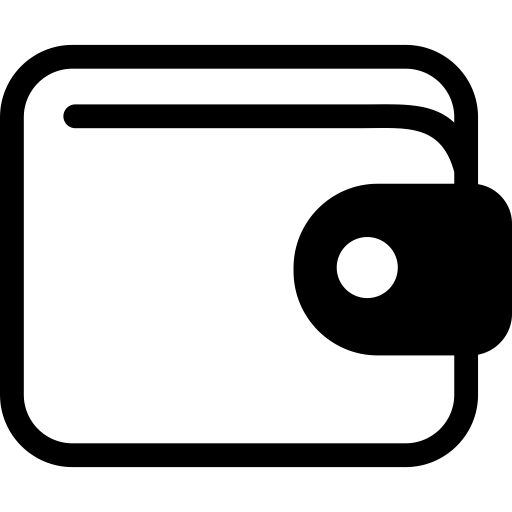
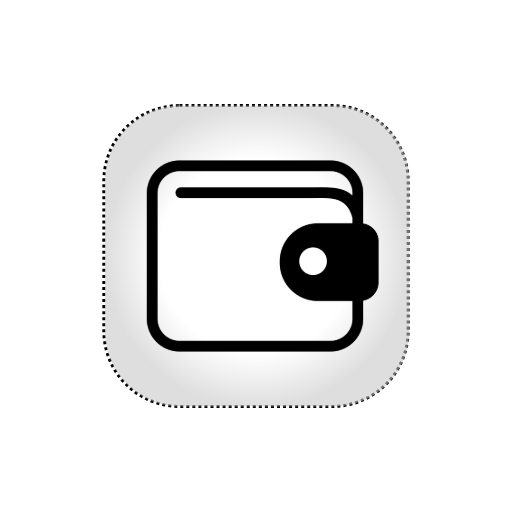
poprawa nawigacji przy opcji zapomnialem haslo, update ikony i rozwiazanie problemow: offline, checkAndRestore przy kazdym uruchomieniu aplikacji, sprawdzanie czy wykonac upload backupu po tygodniu

diff --git a/context/DbContext.jsx b/context/DbContext.jsx
@@ -8,7 +8,8 @@ import migrations from '@/drizzle/migrations';
 import { openDatabaseSync } from 'expo-sqlite';
 import { initializeNewUserDatabase } from '@/database/defaultData';
 import { processPeriodicTransactions } from '@/services/periodicTransactionService';
-import { shouldCheckPeriodicTransactions, markPeriodicCheckCompleted } from '@/utils/periodicChecker';
+import { shouldCheckPeriodicTransactions, markPeriodicCheckCompleted, shouldCheckBackup, performBackupCheck } from '@/utils/periodicChecker';
+import { useNetworkStatus } from './NetworkContext';
 
 export const DATABASE_NAME = 'database.db';
 const DB_PATH = `${FileSystem.documentDirectory}SQLite/${DATABASE_NAME}`;
@@ -19,6 +20,7 @@ export const DbProvider = ({ children }) => {
     const [db, setDb] = useState(null);
     const [isLoading, setIsLoading] = useState(false);
     const [isReady, setIsReady] = useState(false);
+    const { isConnected } = useNetworkStatus();
 
     const sqliteConnectionRef = useRef(null);
     const isClearingRef = useRef(false);
@@ -81,7 +83,6 @@ export const DbProvider = ({ children }) => {
 
         setIsLoading(true);
         console.log('[DbContext] Inicjalizacja bazy danych po logowaniu...');
-
         if (sqliteConnectionRef.current) {
             try {
                 sqliteConnectionRef.current.closeSync();
@@ -93,7 +94,7 @@ export const DbProvider = ({ children }) => {
         sqliteConnectionRef.current = null;
 
         try {
-            if (!skipRestore) {
+            if (!skipRestore && isConnected) {
                 console.log('[DbContext] Sprawdzanie i przywracanie kopii zapasowej bazy danych...');
                 await checkAndRestoreBackup(uid);
             }
@@ -124,9 +125,7 @@ export const DbProvider = ({ children }) => {
                         if (periodicResult.addedCount > 0) {
                             console.log(`[DbContext] ${periodicResult.message}`);
                             console.log(`[DbContext] Dodane transakcje:`, periodicResult.addedTransactions.map(t => t.title));
-                            if (__DEV__) {
-                                //Alert.alert('Dodano nowe transakcje', periodicResult.message);
-                            }
+
                         } else {
                             console.log('[DbContext] Sprawdzenie transakcji okresowych zakończone - brak nowych transakcji');
                         }
@@ -135,6 +134,25 @@ export const DbProvider = ({ children }) => {
                     }
                 } else {
                     console.log('[DbContext] Transakcje okresowe sprawdzane niedawno, pomijam sprawdzenie');
+                }
+
+                if (isConnected) {
+                    const shouldCheckBackupNow = await shouldCheckBackup();
+                    if (shouldCheckBackupNow) {
+                        try {
+                            const backupResult = await performBackupCheck();
+                            if (backupResult.uploaded) {
+                            } else {
+                                console.log(`[DbContext] Backup nie był potrzebny: ${backupResult.reason}`);
+                            }
+                        } catch (backupError) {
+                            console.error('[DbContext] Błąd podczas sprawdzania backup\'u:', backupError);
+                        }
+                    } else {
+                        console.log('[DbContext] Backup sprawdzany niedawno (< 24h), pomijam.');
+                    }
+                } else {
+                    console.log('[DbContext] Brak połączenia z internetem, pomijam sprawdzanie backup\'u.');
                 }
 
             } catch (periodicError) {
@@ -147,7 +165,7 @@ export const DbProvider = ({ children }) => {
         }
         setIsLoading(false);
         isInitializingRef.current = false;
-    }, [clearDatabase]);
+    }, [clearDatabase, isConnected]);
 
     const handleNewRegistration = useCallback(async (userId, email) => {
         setIsLoading(true);

diff --git a/services/backupService.js b/services/backupService.js
@@ -225,7 +225,7 @@ export async function uploadBackupIfOlderThan(thresholdInMilliseconds = 7 * 24 *
     const storage = getStorage();
     const userId = auth.currentUser?.uid;
     if (!userId) {
-        console.warn("[ConditionalBackup] Użytkownik nie jest zalogowany.");
+        console.warn("[BackupService] Użytkownik nie jest zalogowany.");
         return { uploaded: false, reason: "User not logged in" };
     }
 
@@ -233,36 +233,36 @@ export async function uploadBackupIfOlderThan(thresholdInMilliseconds = 7 * 24 *
     let newestRemoteTimestamp = 0;
 
     try {
-        console.log(`[ConditionalBackup] Sprawdzanie istniejących backupów dla użytkownika ${userId}`);
+        console.log(`[BackupService] Sprawdzanie istniejących backupów dla użytkownika ${userId}`);
         const newestBackup = await _findNewestRemoteBackup(userBackupsRef);
 
         if (newestBackup) {
             newestRemoteTimestamp = newestBackup.timestamp;
-            console.log(`[ConditionalBackup] Najnowszy zdalny backup ma timestamp: ${newestRemoteTimestamp}`);
+            console.log(`[BackupService] Najnowszy zdalny backup ma timestamp: ${newestRemoteTimestamp}`);
         } else {
-            console.log("[ConditionalBackup] Brak zdalnych backupów. Należy utworzyć pierwszy backup.");
+            console.log("[BackupService] Brak zdalnych backupów. Należy utworzyć pierwszy backup.");
         }
     } catch (error) {
         if (error.code === 'storage/object-not-found' || (error.message && error.message.includes("No object found"))) {
-            console.log("[ConditionalBackup] Katalog backupów użytkownika nie istnieje. Należy utworzyć pierwszy backup.");
+            console.log("[BackupService] Katalog backupów użytkownika nie istnieje. Należy utworzyć pierwszy backup.");
         } else {
-            console.error("[ConditionalBackup] Błąd podczas listowania zdalnych backupów:", error);
+            console.error("[BackupService] Błąd podczas listowania zdalnych backupów:", error);
             return { uploaded: false, reason: "Error listing remote backups" };
         }
     }
 
     const thresholdTimestamp = Date.now() - thresholdInMilliseconds;
     if (newestRemoteTimestamp < thresholdTimestamp) {
-        console.log(`[ConditionalBackup] Najnowszy backup jest starszy niż próg. Rozpoczynam upload.`);
+        console.log(`[BackupService] Najnowszy backup jest starszy niż próg. Rozpoczynam upload.`);
         try {
             const uploadResult = await performUpload();
             return { uploaded: !!uploadResult, reason: uploadResult ? "Backup successful." : "Upload process failed." };
         } catch (error) {
-            console.error("[ConditionalBackup] Błąd podczas uploadu:", error);
+            console.error("[BackupService] Błąd podczas uploadu:", error);
             return { uploaded: false, reason: "Error during upload" };
         }
     } else {
-        console.log(`[ConditionalBackup] Najnowszy zdalny backup jest wystarczająco świeży.`);
+        console.log(`[BackupService] Najnowszy zdalny backup jest wystarczająco świeży.`);
         return { uploaded: false, reason: "Existing backup is recent enough." };
     }
 }

diff --git a/utils/periodicChecker.js b/utils/periodicChecker.js
@@ -1,7 +1,10 @@
 import AsyncStorage from '@react-native-async-storage/async-storage';
+import { uploadBackupIfOlderThan } from '@/services/backupService';
 
 const LAST_CHECK_KEY = 'lastPeriodicTransactionCheck';
+const LAST_BACKUP_CHECK_KEY = 'lastBackupCheck';
 const CHECK_INTERVAL_HOURS = 6;
+const BACKUP_CHECK_INTERVAL_HOURS = 24;
 
 export const shouldCheckPeriodicTransactions = async () => {
   try {
@@ -65,3 +68,52 @@ export const getLastCheckInfo = async () => {
     return null;
   }
 };
+
+export const shouldCheckBackup = async () => {
+  try {
+    console.log('[PeriodicChecker] Sprawdzanie czy należy sprawdzić backup...');
+
+    const lastCheckStr = await AsyncStorage.getItem(LAST_BACKUP_CHECK_KEY);
+    const lastCheckTimestamp = lastCheckStr ? parseInt(lastCheckStr) : 0;
+    const currentTimestamp = Math.floor(Date.now() / 1000);
+
+    const intervalSeconds = BACKUP_CHECK_INTERVAL_HOURS * 60 * 60;
+    const timeSinceLastCheck = currentTimestamp - lastCheckTimestamp;
+
+    const shouldCheck = timeSinceLastCheck > intervalSeconds;
+    console.log(`[PeriodicChecker] Czy sprawdzać czy uplodowac nowy backup? ${shouldCheck ? 'TAK' : 'NIE'}`);
+
+    return shouldCheck;
+
+  } catch (error) {
+    console.error('[PeriodicChecker] Błąd podczas sprawdzania czasu backup\'u:', error);
+    return true;
+  }
+};
+
+export const performBackupCheck = async () => {
+  try {
+    console.log('[PeriodicChecker] Sprawdzanie czy backup jest starszy niż 7 dni...');
+
+    const backupResult = await uploadBackupIfOlderThan();
+
+    const currentTimestamp = Math.floor(Date.now() / 1000);
+    await AsyncStorage.setItem(LAST_BACKUP_CHECK_KEY, currentTimestamp.toString());
+
+    console.log(`[PeriodicChecker] Wynik sprawdzenia backup'u:`, backupResult);
+
+    return backupResult;
+  } catch (error) {
+    console.error('[PeriodicChecker] Błąd podczas sprawdzania backup\'u:', error);
+
+    try {
+      const currentTimestamp = Math.floor(Date.now() / 1000);
+      await AsyncStorage.setItem(LAST_BACKUP_CHECK_KEY, currentTimestamp.toString());
+    } catch (saveError) {
+      console.error('[PeriodicChecker] Błąd podczas zapisywania timestamp backup\'u:', saveError);
+    }
+
+    return { uploaded: false, reason: 'Error during backup check' };
+  }
+};
+

diff --git a/app/_layout.jsx b/app/_layout.jsx
@@ -10,7 +10,7 @@ import { getHashedPin } from '@/services/pinService';
 import { PaperProvider, Text, useTheme } from 'react-native-paper';
 import { SafeAreaView } from 'react-native-safe-area-context';
 import { ThemeProvider, useThemeContext } from '@/context/ThemeContext';
-
+import * as FileSystem from 'expo-file-system';
 
 const OfflineBanner = () => {
   const theme = useTheme();
@@ -66,7 +66,20 @@ function RootLayoutNav() {
 
         if (!db) {
           if (!isDbLoading) {
-            await withTimeout(initializeDatabase(user.uid), 7000).catch(e => console.warn('DB init', e));
+            try {
+              const DB_PATH = `${FileSystem.documentDirectory}SQLite/database.db`;
+              const dbFileInfo = await FileSystem.getInfoAsync(DB_PATH);
+
+              if (dbFileInfo.exists && user?.uid) {
+                console.log('[RootLayoutNav] Plik bazy istnieje, pomijam sprawdzanie backup\'u');
+                await withTimeout(initializeDatabase(user.uid, true), 7000).catch(e => console.warn('DB init fast', e));
+              } else {
+                console.log('[RootLayoutNav] Plik bazy nie istnieje, pełna inicjalizacja z backup\'em');
+                await withTimeout(initializeDatabase(user.uid, false), 7000).catch(e => console.warn('DB init full', e));
+              }
+            } catch (error) {
+              console.error('[RootLayoutNav] Błąd podczas inicjalizacji bazy danych:', error);
+            }
           }
           return;
         }

diff --git a/app/pinChecking.jsx b/app/pinChecking.jsx
@@ -92,7 +92,10 @@ export default function PinCheckingScreen() {
             title: "Resetowanie PINu",
             content: "Resetowanie PINu wymaga wylogowania. Spowoduje to usunięcie lokalnych danych i synchronizację z chmurą przy następnym logowaniu. Czy na pewno chcesz kontynuować?",
             confirmText: "Wyloguj i zresetuj",
-            onConfirm: async () => await logout(),
+            onConfirm: async () => {
+                await logout();
+                router.replace('/');
+            },
             dangerous: true
         });
     };
